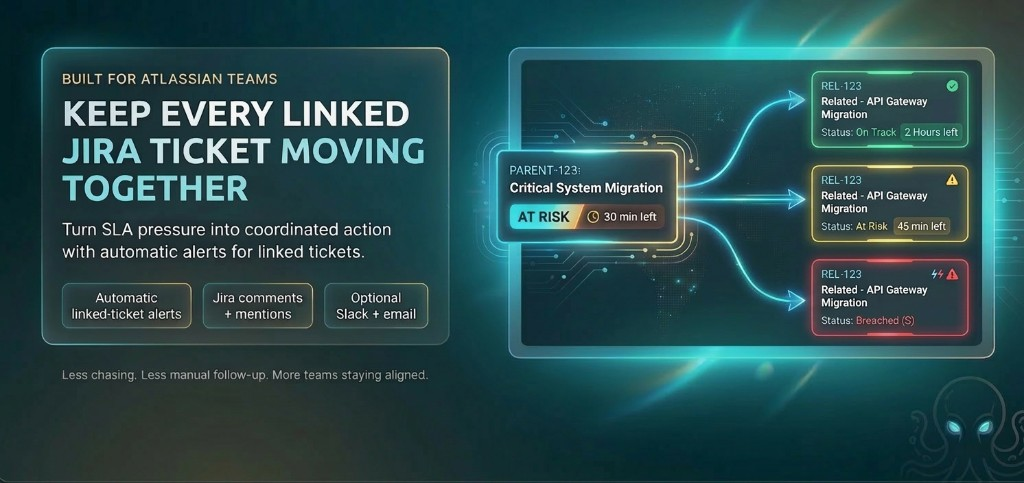
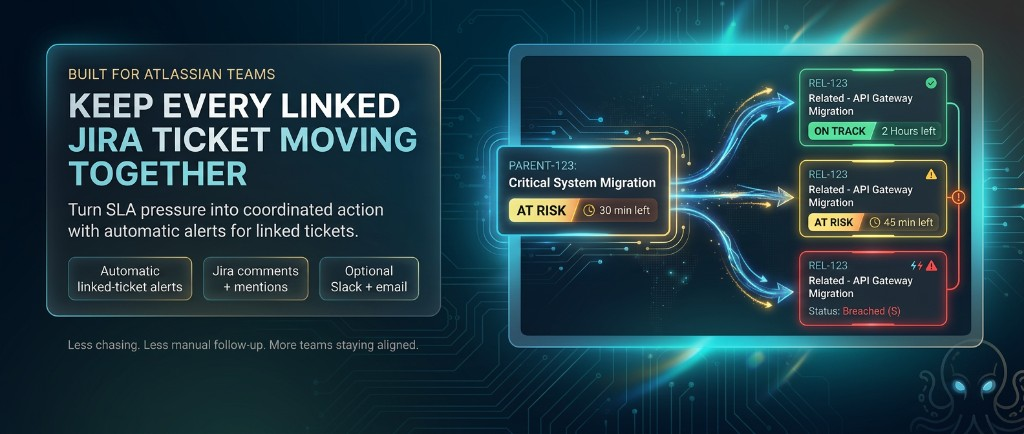
added new hero v3

diff --git a/index.html b/index.html
@@ -723,14 +723,14 @@ a:hover{
   </h1>
 
   <div class="splash-stage">
-    <!-- Hero art: Linked SLA Alerts marketing banner (add hero-banner@2x.png + srcset when a 2× export is available) -->
+    <!-- Hero art: Linked SLA Alerts marketing banner v3 (add hero-banner@2x.png + srcset when a 2× export is available) -->
     <img
       class="splash-art"
       src="assets/hero-banner.png"
       srcset="assets/hero-banner.png 1024w"
       sizes="(max-width: 768px) calc(100vw - 48px), min(1320px, calc(100vw - 80px))"
       width="1024"
-      height="483"
+      height="434"
       alt="Linked SLA Alerts by Tech Cache: Built for Atlassian teams — Keep every linked Jira ticket moving together. Parent ticket at risk with SLA time flowing to linked issues (on track, at risk, breached). Automatic linked-ticket alerts, Jira comments and mentions, optional Slack and email."
       decoding="sync"
       fetchpriority="high"
